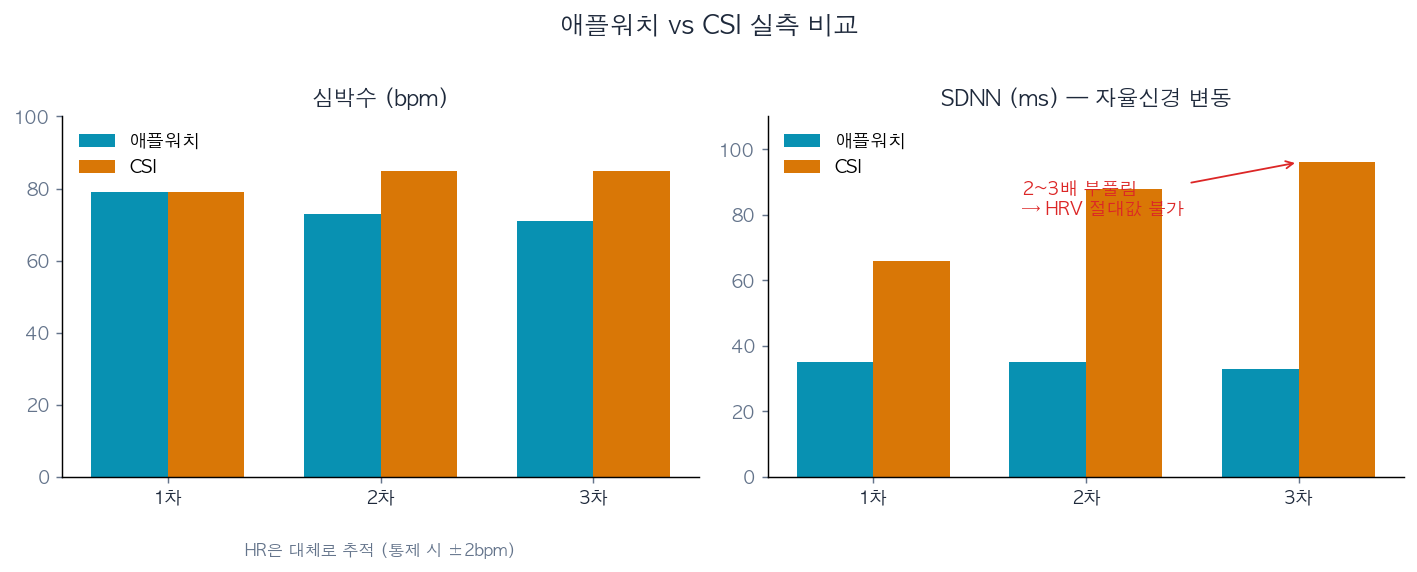
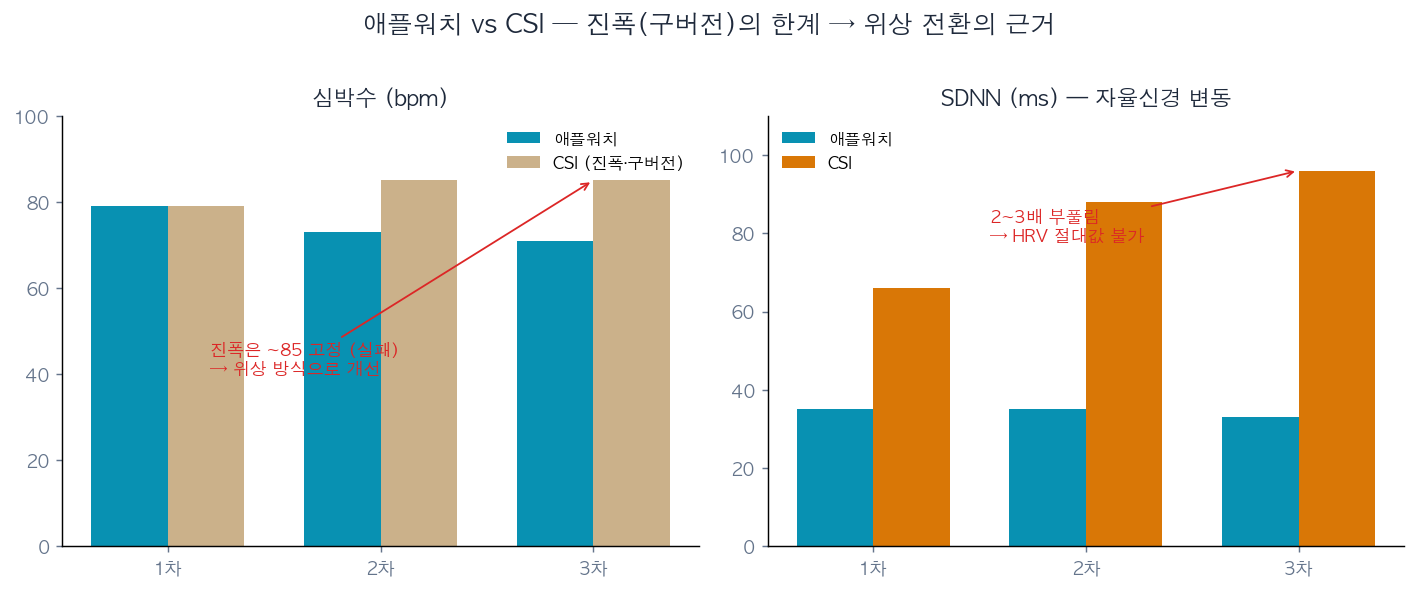
docs(csi): 발표 CSI 슬라이드 인터랙티브 측정실적 + 실측 차트 3종
- 9회 측정 평균(HR71·강도0.47·신뢰100%) 요약 + 탭 클릭 펼침
  (위상신호 / 측정표9회 / HR커버리지 / 강도분포) — 웹 PPT 드릴다운
- a_hr_coverage.png, c_strength_dist.png 신규 (실측)
- watch_vs_csi.png 라벨 정리 (진폭 구버전 → 위상 전환 근거)

diff --git a/esp32/docs/presentation/index.html b/esp32/docs/presentation/index.html
@@ -78,6 +78,21 @@
   .card2{border:1px solid var(--line);border-radius:14px;padding:18px;background:#fff;margin-top:6px}
   .card2.limit{border-left:4px solid var(--danger)} .card2.next{border-left:4px solid var(--ok)}
 
+  /* 인터랙티브 측정실적 (평균 → 클릭 펼침) */
+  .msum{background:var(--csibg);border:1px solid var(--csi);border-radius:12px;padding:12px 16px;font-size:clamp(14px,1.5vw,17px)}
+  .msum b{color:var(--csi)} .hint2{color:var(--faint);font-size:12px;margin-left:8px}
+  .mtabs{display:flex;gap:6px;margin:12px 0 8px;flex-wrap:wrap}
+  .mt{border:1px solid var(--line);background:#fff;border-radius:9px;padding:7px 15px;cursor:pointer;font-size:13px;font-weight:600;color:var(--dim)}
+  .mt.on{background:var(--csi);color:#fff;border-color:var(--csi)}
+  .mviewport{flex:1;min-height:0;display:flex}
+  .mview{display:none;flex:1;min-height:0;width:100%}
+  .mview.on{display:flex;align-items:center;justify-content:center;animation:fade .25s}
+  .mimg{max-width:100%;max-height:100%;object-fit:contain;border:1px solid var(--line);border-radius:12px;background:#fff}
+  .mtable{border-collapse:collapse;font-size:13.5px;margin:auto}
+  .mtable td,.mtable th{border:1px solid var(--line);padding:6px 14px;text-align:center}
+  .mtable th{background:#f8fafc;color:var(--dim);font-family:'JetBrains Mono',monospace;font-size:11px}
+  .mtable .ok{color:var(--ok);font-weight:700}
+
   /* 로드맵 */
   .road{display:grid;grid-template-columns:repeat(3,1fr);gap:14px;margin-top:14px}
   .rcol h4{font-size:15px;margin-bottom:8px;display:flex;align-items:center;gap:8px}
@@ -210,17 +225,36 @@
   <section class="slide">
     <div class="kicker">06 · 센서 진행 · CSI ① <span class="by">박형석</span></div>
     <h2 style="color:var(--csi)">심박 · 호흡 · 자율신경 추세 — 작동 중</h2>
-    <div class="cols">
-      <div class="col">
-        <ul class="feat">
-          <li><b>ESP32-S3 × 2</b> (TX softAP + RX) → CSI 100Hz 수신</li>
-          <li><b>위상 자기상관 HR</b> + 진폭 호흡 + 신호강도 (애플워치 ±2bpm 검증)</li>
-          <li>재실(<b>1D CNN</b>) + <b>z-score 추세</b> + 서버 연동(raw+quality+presence)</li>
-          <li>서버가 baseline·z-score·4단계 알람 계산 (<code>csi_logic</code>)</li>
-        </ul>
-        <div class="pills"><span class="pill" style="color:var(--csi)">POST /csi :5003</span><span class="pill">HR·호흡·강도</span><span class="pill">z-score</span></div>
-      </div>
-      <div class="col"><img src="img/csi_signal.png" alt="CSI 위상 신호 심박 추출" style="width:100%;height:100%;object-fit:contain;border:1px solid var(--line);border-radius:14px;background:#fff"></div>
+    <ul class="feat" style="columns:2;column-gap:36px;margin-bottom:6px">
+      <li><b>ESP32-S3 ×2</b> → CSI 100Hz 수신</li>
+      <li><b>위상 자기상관 HR</b> + 진폭 호흡 + 강도</li>
+      <li>재실(<b>1D CNN</b>) + <b>z-score 추세</b></li>
+      <li>서버 baseline·z-score·4단계 (<code>csi_logic</code>)</li>
+    </ul>
+    <div class="msum">📊 <b>9회 측정</b> 평균 — <b>HR 71</b>bpm · <b>호흡 7</b>rpm · <b>강도 0.47</b> · 신뢰 <b>100%</b> (9/9)
+      <span class="hint2">아래 탭을 눌러 자세히 펼쳐 보기 ▾</span></div>
+    <div class="mtabs">
+      <button class="mt on" onclick="mtab(this,'sig')">위상신호 (심박 추출)</button>
+      <button class="mt" onclick="mtab(this,'tbl')">측정표 (9회)</button>
+      <button class="mt" onclick="mtab(this,'hr')">HR 커버리지</button>
+      <button class="mt" onclick="mtab(this,'st')">신호강도 분포</button>
+    </div>
+    <div class="mviewport">
+      <div class="mview on" data-v="sig"><img class="mimg" src="img/csi_signal.png" alt="위상 신호 심박 추출"></div>
+      <div class="mview" data-v="tbl"><table class="mtable">
+        <tr><th>측정</th><th>HR</th><th>호흡</th><th>강도</th><th>신뢰</th></tr>
+        <tr><td>rest</td><td>62</td><td>6</td><td>0.62</td><td class="ok">✓</td></tr>
+        <tr><td>rest2</td><td>76</td><td>6</td><td>0.41</td><td class="ok">✓</td></tr>
+        <tr><td>watch1</td><td>56</td><td>6</td><td>0.58</td><td class="ok">✓</td></tr>
+        <tr><td>watch2</td><td>87</td><td>9</td><td>0.49</td><td class="ok">✓</td></tr>
+        <tr><td>watch3</td><td>63</td><td>9</td><td>0.46</td><td class="ok">✓</td></tr>
+        <tr><td>hold</td><td>88</td><td>9</td><td>0.32</td><td class="ok">✓</td></tr>
+        <tr><td>hold2</td><td>74</td><td>27</td><td>0.41</td><td class="ok">✓</td></tr>
+        <tr><td>hold3</td><td>62</td><td>6</td><td>0.45</td><td class="ok">✓</td></tr>
+        <tr><td>hold4</td><td>67</td><td>6</td><td>0.47</td><td class="ok">✓</td></tr>
+      </table></div>
+      <div class="mview" data-v="hr"><img class="mimg" src="img/a_hr_coverage.png" alt="HR 커버리지"></div>
+      <div class="mview" data-v="st"><img class="mimg" src="img/c_strength_dist.png" alt="신호강도 분포"></div>
     </div>
   </section>
 
@@ -301,7 +335,7 @@
   });
   // 클릭 좌/우 절반으로 넘김(임베드·버튼 제외)
   document.getElementById('deck').addEventListener('click',e=>{
-    if(e.target.closest('button,input,iframe,.fstep,.toggle,.live-bar'))return;
+    if(e.target.closest('button,input,iframe,.fstep,.toggle,.live-bar,.mtabs,.mviewport,.mtable'))return;
     show(e.clientX > window.innerWidth/2 ? cur+1 : cur-1);
   });
 
@@ -309,6 +343,11 @@
   function reloadFrame(){ document.getElementById('liveframe').src=document.getElementById('host').value; }
   // 흐름도 클릭
   function pickStep(el){ [...document.querySelectorAll('.fstep')].forEach(s=>s.classList.remove('on')); el.classList.add('on'); }
+  // 측정실적 탭 (평균 → 클릭 펼침)
+  function mtab(btn,v){
+    btn.parentElement.querySelectorAll('.mt').forEach(b=>b.classList.remove('on')); btn.classList.add('on');
+    document.querySelectorAll('.mview').forEach(m=>m.classList.toggle('on',m.dataset.v===v));
+  }
   // 토글
   function tview(which){
     document.getElementById('v-limit').classList.toggle('on',which==='limit');